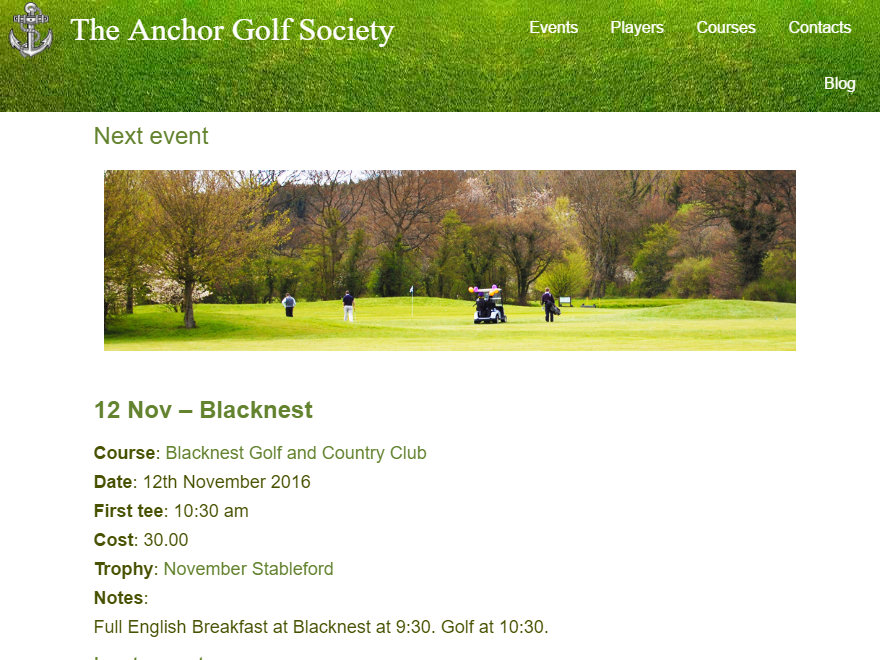
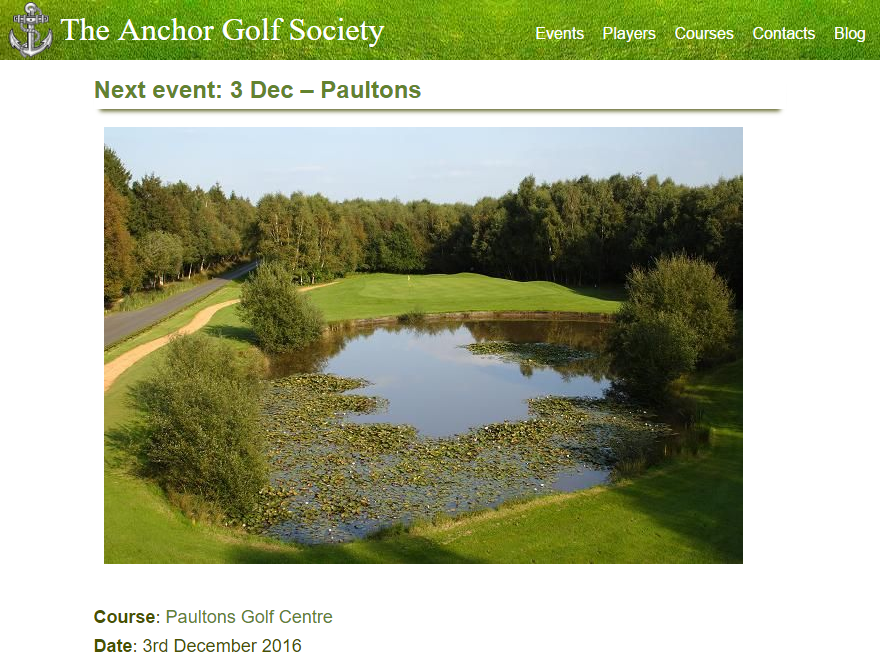
Fixes #4 - Improve responsive display of the header

diff --git a/custom.css b/custom.css
@@ -198,7 +198,7 @@ h1:before { content: "Company Name"; }
 	.site-inner,
 	.wrap,
 	.footer-widgets {
-		max-width: 800px;
+		/* max-width: 800px; */
 	}
 	
 	.title-area {
@@ -299,15 +299,15 @@ h1:before { content: "Company Name"; }
 
 @media only screen and (max-width: 768px) {
 	.title-area {
-		width: 100%;
+		width: 50%;
 	}
 	
 	.site-header .widget-area {
-		width: 100%;
+		width: 50%;
 	}
 	
 	.genesis-nav-menu a {
-		padding: 0px 14px 5px 14px;
+		padding: 24px 11px 5px 1px;
 	} 
 	
 	/*
@@ -348,9 +348,21 @@ h1:before { content: "Company Name"; }
 
 }
 
+@media only screen and (max-width: 757px ) {
+	.title-area,
+	.site-header .widget-area {
+		width: 100%;
+	}
+	
+ .genesis-nav-menu a { 
+		padding-top: 5px; 
+	}
+}
+
 
 
 @media only screen and (max-width: 480px) {
+
 
 .site-header {
 	padding-left: 0px;
@@ -370,7 +382,7 @@ h1:before { content: "Company Name"; }
 .genesis-nav-menu a,
 .genesis-nav-menu > .first > a,
 .genesis-nav-menu > .last > a {
-	padding: 5px 5px 5px 0;
+	padding: 5px 3px 5px 0;
 }
 
 .genesis-nav-menu {

diff --git a/style.css b/style.css
@@ -4,9 +4,9 @@ Theme URI: http://www.bobbingwide.com/themes/genesis-tags
 Description: Child theme of genesis framework with image.php for The Anchor Golf Society
 Author: Bobbing Wide  
 Author URI: http://www.oik-plugins.com/author/bobbingwide
-Version: 1.0.0 
+Version: 1.0.1 
 Template: genesis 
-Template Version: 2.2.7 
+Template Version: 2.4.2 
 Tags:   
 License: GPL-2.0+  
 License URI: http://www.gnu.org/licenses/gpl-2.0.html  
@@ -1053,7 +1053,7 @@ img.alignright,
 	color: #ffffff;
 	text-decoration: none;
 	display: block;
-	padding: 20px 14px;
+	padding: 26px 14px 16px 0;
 }
 
 .genesis-nav-menu a:hover,

diff --git a/README.md b/README.md
@@ -1,2 +1,67 @@
-# genesis-tags
-Genesis child theme for anchorgolf.co.uk / anchorgolf.com
+# genesis-tags 
+![screenshot](https://raw.githubusercontent.com/bobbingwide/genesis-tags/master/screenshot.png)
+* Contributors: bobbingwide
+* Donate link: http://www.oik-plugins.com/oik/oik-donate/
+* Tags: genesis, TAGS, one-column, two-columns, sidebars, responsive-layout, accessibility-ready, custom-background, custom-colors, custom-header, custom-menu, editor-style, featured-images, flexible-header, microformats, post-formats, rtl-language-support, sticky-post, threaded-comments
+* Requires at least: 4.6
+* Tested up to: 4.7-beta4
+* Version: 1.0.1
+* License: GPLv2 or later
+* License URI: http://www.gnu.org/licenses/gpl-2.0.html
+
+Genesis Child Theme for The Anchor Golf Society
+
+## Description 
+genesis-tags is a child theme for the Genesis Theme Framework, implemented on anchorgolf.com
+
+## Installation 
+
+1. Purchase and Install the Genesis parent theme
+2. Download the genesis-tags child theme
+3. Install the genesis-tags child theme
+4. Activate the genesis-tags child theme
+5. Navigate to Appearance > Customize in your admin panel and customize to taste.
+6. Navigate to Genesis > Theme Settings to set other options
+7. Optionally, install and activate a range of oik-based plugins.
+
+
+## Change Log 
+# 1.0.1 
+* Added: Add new screenshot.png file 880x660
+* Added: Media queries for printing Players table	https://github.com/bobbingwide/genesis-tags/issues/3
+* Changed: Improve responsive display of Published | Last updated post info https://github.com/bobbingwide/genesis-tags/issues/2
+* Changed: Improve responsive display of the header https://github.com/bobbingwide/genesis-tags/issues/4
+
+# 1.0.0 
+* Changed: Removed logic now available from the genesistant plugin https://github.com/bobbingwide/genesis-tags/issues/1
+
+# 1.0 
+* Added: v1.0 - Nov 2015 for replacement website, migrated from Drupal
+
+
+
+## Copyright 
+(C) Copyright Bobbing Wide 2015,2016
+
+* This program is free software: you can redistribute it and/or modify
+it under the terms of the GNU General Public License as published by
+the Free Software Foundation, either version 2 of the License, or
+(at your option) any later version.
+
+This program is distributed in the hope that it will be useful,
+but WITHOUT ANY WARRANTY; without even the implied warranty of
+MERCHANTABILITY or FITNESS FOR A PARTICULAR PURPOSE. See the
+GNU General Public License for more details.
+
+genesis-tags does not bundle third-party resources.
+
+## Notes 
+
+* Dependent upon the Genesis Theme Framework, genesis-footer-widgets and other oik plugins.
+* genesis-tags includes image.php from genesis-image
+
+
+
+
+
+
